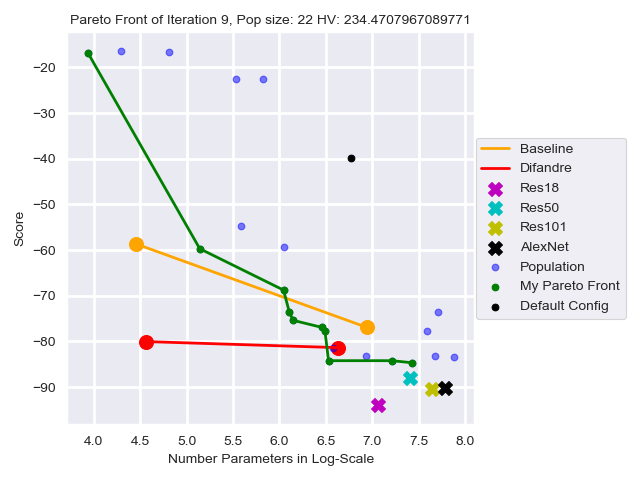
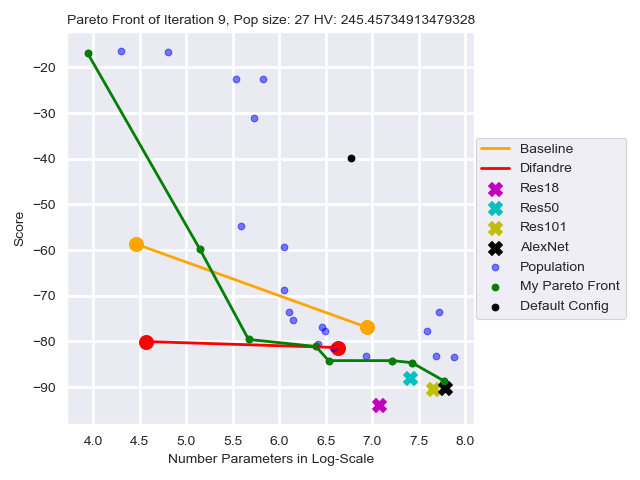
added load population option and last run

diff --git a/src/main.py b/src/main.py
@@ -2,6 +2,7 @@ import os
 import argparse
 import logging
 import time
+import re
 import numpy as np
 import jsonpickle
 from sklearn.model_selection import StratifiedKFold   # We use 3-fold stratified cross-validation
@@ -78,7 +79,7 @@ def init_population(population,
     'global_avg_pooling': True,
     'use_BN': False,
     'n_fc_layers':1,
-    'n_channels_fc_0': 300}
+    'n_channels_fc_0': 273}
 
     config4 = {
     'optimizer': 0.8,
@@ -132,6 +133,66 @@ def init_population(population,
                device,
                save_model_str,
                default)
+
+
+def load_last_population(path_to_last_pop,
+                     path_to_models,
+                     population,
+                     population_number):
+    f = open(path_to_last_pop + "\\" + "population" + str(population_number) + ".json").read()
+    population_dict = jsonpickle.decode(f)
+    # load all the models that are in the population
+    candidate_list = []
+    print("Searching for candiates: ")
+    print(population_dict['candidate_ids'])
+    cans = population_dict['candidate_ids']
+    default_in_cans = False
+    for i in cans:
+        if i == 4:
+            default_in_cans = True
+            break
+    # append default config
+    if not(default_in_cans):
+        cans.append(4)
+    # find max model id
+    max_id = 0
+    for filename in os.listdir(path_to_models):
+        if filename.endswith(".json") and filename.find('model') != -1:
+            id_found = int(re.findall('[0-9]+', filename)[0])
+            if id_found > max_id:
+                max_id = id_found
+    print("Max id found: %d" % max_id)
+    for i in population_dict['candidate_ids']:
+        for filename in os.listdir(path_to_models):
+            if filename.endswith(".json") and filename.find('model' + str(i) + ".") != -1:
+                print('Found Candiadate : ' + filename)
+                f = open(path_to_models + '\\' + filename).read()
+                c_d= jsonpickle.decode(f)
+                # load the torch model of the candidate:
+                model = torch.load(path_to_models + '\\' + filename[0:-5])
+                candidate = Candidate(score=c_d['score'],
+                                      size=c_d['size'],
+                                      config=c_d['config'],
+                                      model=model,
+                                      HV=c_d['HV'],
+                                      default=c_d['default'],
+                                      id=c_d['id'],
+                                      max_id=max_id
+                                      )
+                # only add default to cans is previously has been in cans
+                if i == 4 and default_in_cans:
+                    population.default = candidate
+                    candidate_list.append(candidate)
+                elif i == 4:
+                    population.default = candidate
+                else:
+                    candidate_list.append(candidate)
+    print(candidate_list)
+    population.candidates = candidate_list
+    population.use_size = population_dict['use_size']
+    population.randomize = population_dict['randomize']
+    population.generations_since_last_change_pareto = population_dict['gslcp']
+    population.HV = population_dict['HV']
 
 
 def train_loop(population,
@@ -251,8 +312,6 @@ def train_loop(population,
     print(1 - np.mean(score), total_model_params)
 
 
-
-
 def main(data_dir,
          num_epochs=10,
          num_generations=2,
@@ -261,7 +320,10 @@ def main(data_dir,
          train_criterion=torch.nn.CrossEntropyLoss,
          model_optimizer=torch.optim.Adam,
          data_augmentations=None,
-         save_model_str=None):
+         save_model_str=None,
+         path_to_population=None,
+         population_number=-1,
+         ):
     """
     Outter loop for the hyperparameter optimization and NAS.
 
@@ -300,21 +362,24 @@ def main(data_dir,
     train_criterion = train_criterion().to(device)
 
     population = Population()
-
-    init_population(population,
-               img_width,
-               img_height,
-               batch_size,
-               num_epochs,
-               learning_rate,
-               train_criterion,
-               cv,
-               data,
-               device,
-               save_model_str)
+    if path_to_population is None:
+        init_population(population,
+                   img_width,
+                   img_height,
+                   batch_size,
+                   num_epochs,
+                   learning_rate,
+                   train_criterion,
+                   cv,
+                   data,
+                   device,
+                   save_model_str)
+    else:
+        print("Loading last population")
+        load_last_population(path_to_population, save_model_str, population, population_number)
 
     use_size = True
-    for g in range(num_generations):
+    for g in range(population_number + 1,num_generations):
         if time.time() - start >= 86400:
             population.plot_pareto_set(population.compute_pareto_set(), g)
             break
@@ -359,7 +424,6 @@ def main(data_dir,
                            device,
                            save_model_str,
                            False)
-
         else:
             #pareto = list(map(lambda x: x, iter(population.compute_pareto_set())))
             for i in range(num_children):
@@ -441,6 +505,14 @@ if __name__ == "__main__":
                                 default=r'.\src\models',
                                 help='Path to store model',
                                 type=str)
+    cmdline_parser.add_argument('-p', '--path_to_pop',
+                                default=r'.\src\models',
+                                help='Path to stored last population (only folder)',
+                                type=str)
+    cmdline_parser.add_argument('-n', '--pop_num',
+                                default=9,
+                                help='Number of last population',
+                                type=str)
     cmdline_parser.add_argument('-v', '--verbose',
                                 default='INFO',
                                 choices=['INFO', 'DEBUG'],
@@ -462,5 +534,7 @@ if __name__ == "__main__":
         num_generations=args.generations,
         learning_rate=args.learning_rate,
         data_augmentations=None,  # Not set in this example
-        save_model_str=args.model_path
+        save_model_str=args.model_path,
+        path_to_population=args.path_to_pop,
+        population_number=args.pop_num
     )

diff --git a/src/population.py b/src/population.py
@@ -14,15 +14,25 @@ class Candidate():
     Wrapper class for the Cnn models.
     """
     _num_candidates = count(0)
+    _ids_set_after_crash = count(0)
 
-    def __init__(self, score, size, config, model, HV):
-        self.id = next(self._num_candidates)
+    def __init__(self, score, size, config, model, HV, default=None, id=None, max_id=0):
+        if not(id is None):
+            self.id = id
+            if next(self._ids_set_after_crash) == 0:
+                for i in range(max_id):
+                    print(next(self._num_candidates))
+                self._ids_set_after_crash = True
+        else:
+            self.id = next(self._num_candidates)
+            print("ID :" + str(self.id))
         self.score = score
         self.size = size
-        self.model = model
+        # now set to none since not not needed
+        self.model = None
         self.init_configuration(config)
         self.config = config
-        self.default = None
+        self.default = default
         self.HV = HV
 
     def __dict__(self):
@@ -69,6 +79,8 @@ class Population():
         self.randomize = False
         self.generations_since_last_change_pareto = 0
         self.HV = 0
+        self.default = None
+
 
     def __dict__(self):
         d = {}

diff --git a/src/utils.py b/src/utils.py
@@ -45,9 +45,9 @@ def get_borders(name_of_parameter):
     'global_avg_pooling': (bool, [True, False]),
     'use_BN': (bool, [True, False]),
     'n_fc_layers': (int, [1,3]),
-    'n_channels_fc_0': (int, [1, 300]),
-    'n_channels_fc_1': (int, [1, 300]),
-    'n_channels_fc_2': (int, [1, 300])}
+    'n_channels_fc_0': (int, [1, 273]),
+    'n_channels_fc_1': (int, [1, 273]),
+    'n_channels_fc_2': (int, [1, 273])}
   if name_of_parameter in borders.keys():
     return borders[name_of_parameter]
   return None
